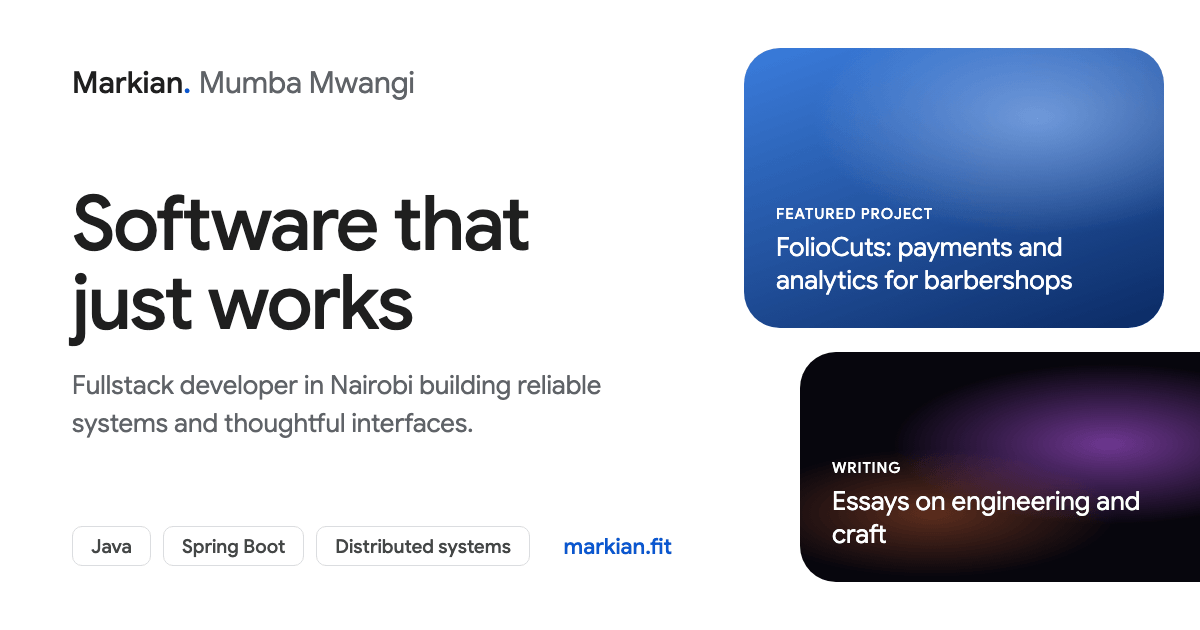
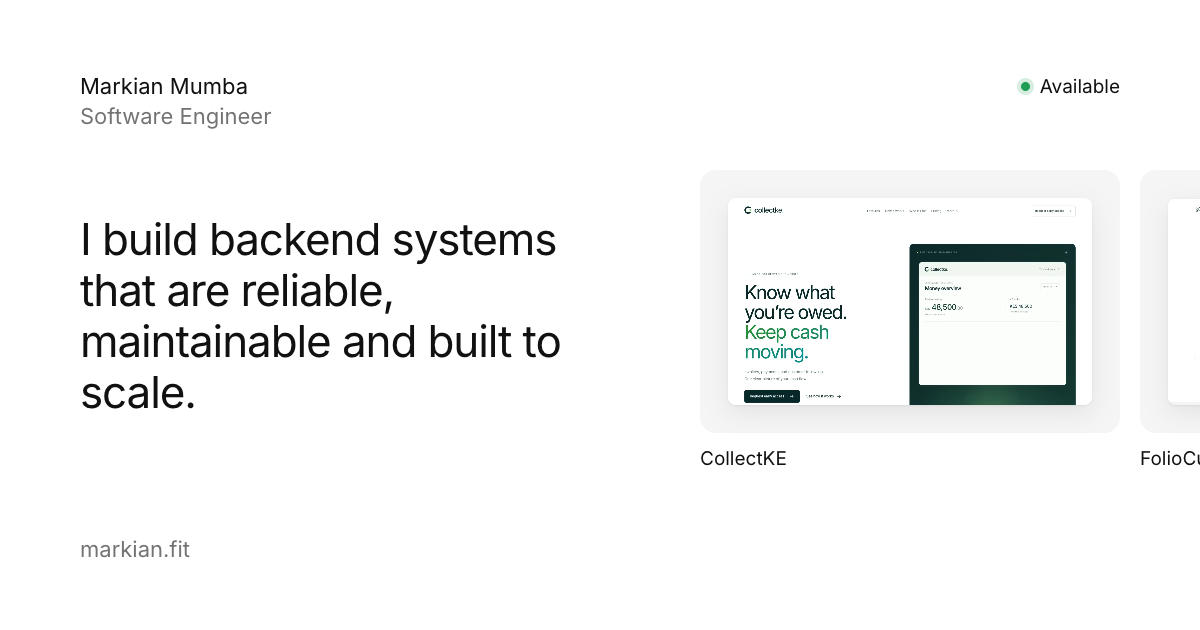
Redraw the link preview image in the minimal style
Name, role and availability over the site's opening line, with framed
project screenshots running off the edge as on the homepage. The alt
text now matches the new card.

diff --git a/index.html b/index.html
@@ -15,10 +15,10 @@
     <meta property="og:image" content="https://markian.fit/og-image.png" />
     <meta property="og:image:width" content="1200" />
     <meta property="og:image:height" content="630" />
-    <meta property="og:image:alt" content="Markian Mumba Mwangi — Software that just works. Fullstack developer in Nairobi." />
+    <meta property="og:image:alt" content="Markian Mumba, Software Engineer — I build backend systems that are reliable, maintainable and built to scale." />
     <meta property="og:url" content="https://markian.fit" />
     <meta name="twitter:image" content="https://markian.fit/og-image.png" />
-    <meta name="twitter:image:alt" content="Markian Mumba Mwangi — Software that just works. Fullstack developer in Nairobi." />
+    <meta name="twitter:image:alt" content="Markian Mumba, Software Engineer — I build backend systems that are reliable, maintainable and built to scale." />
 
     <!-- Twitter Card -->
     <meta name="twitter:card" content="summary_large_image" />
